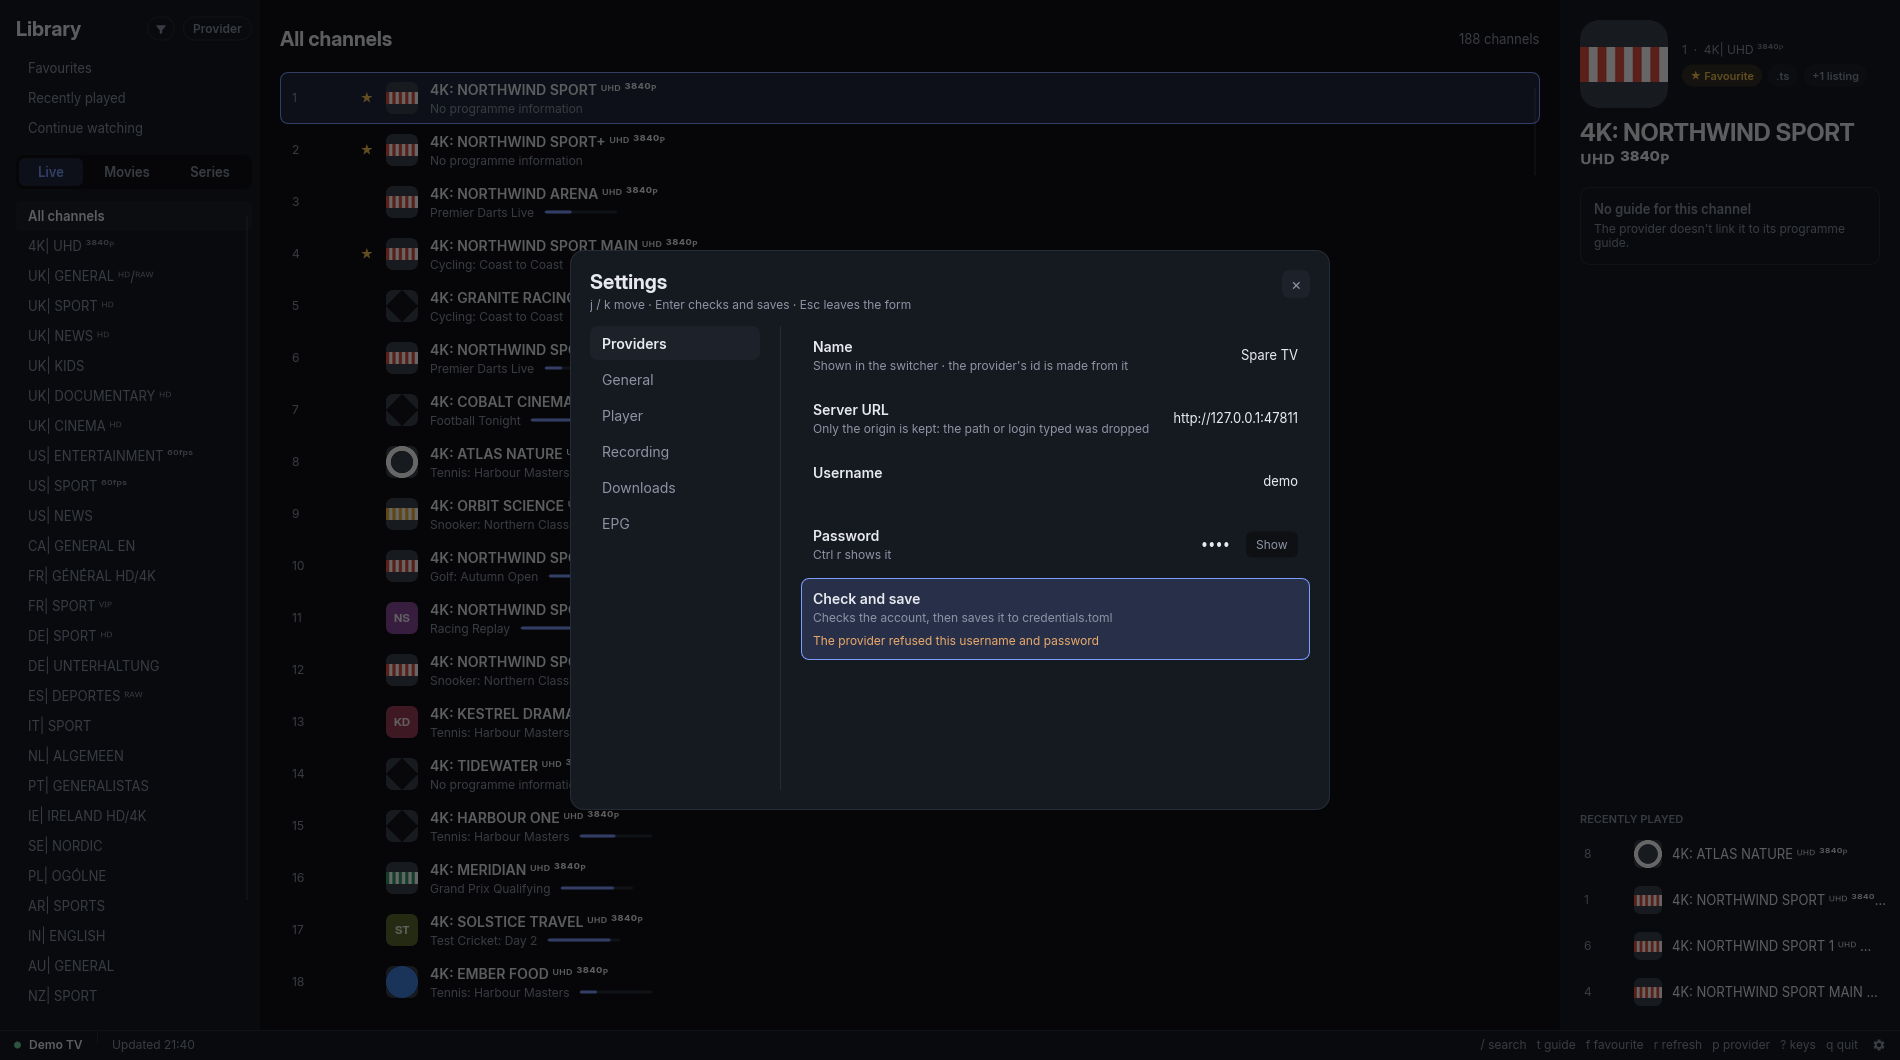
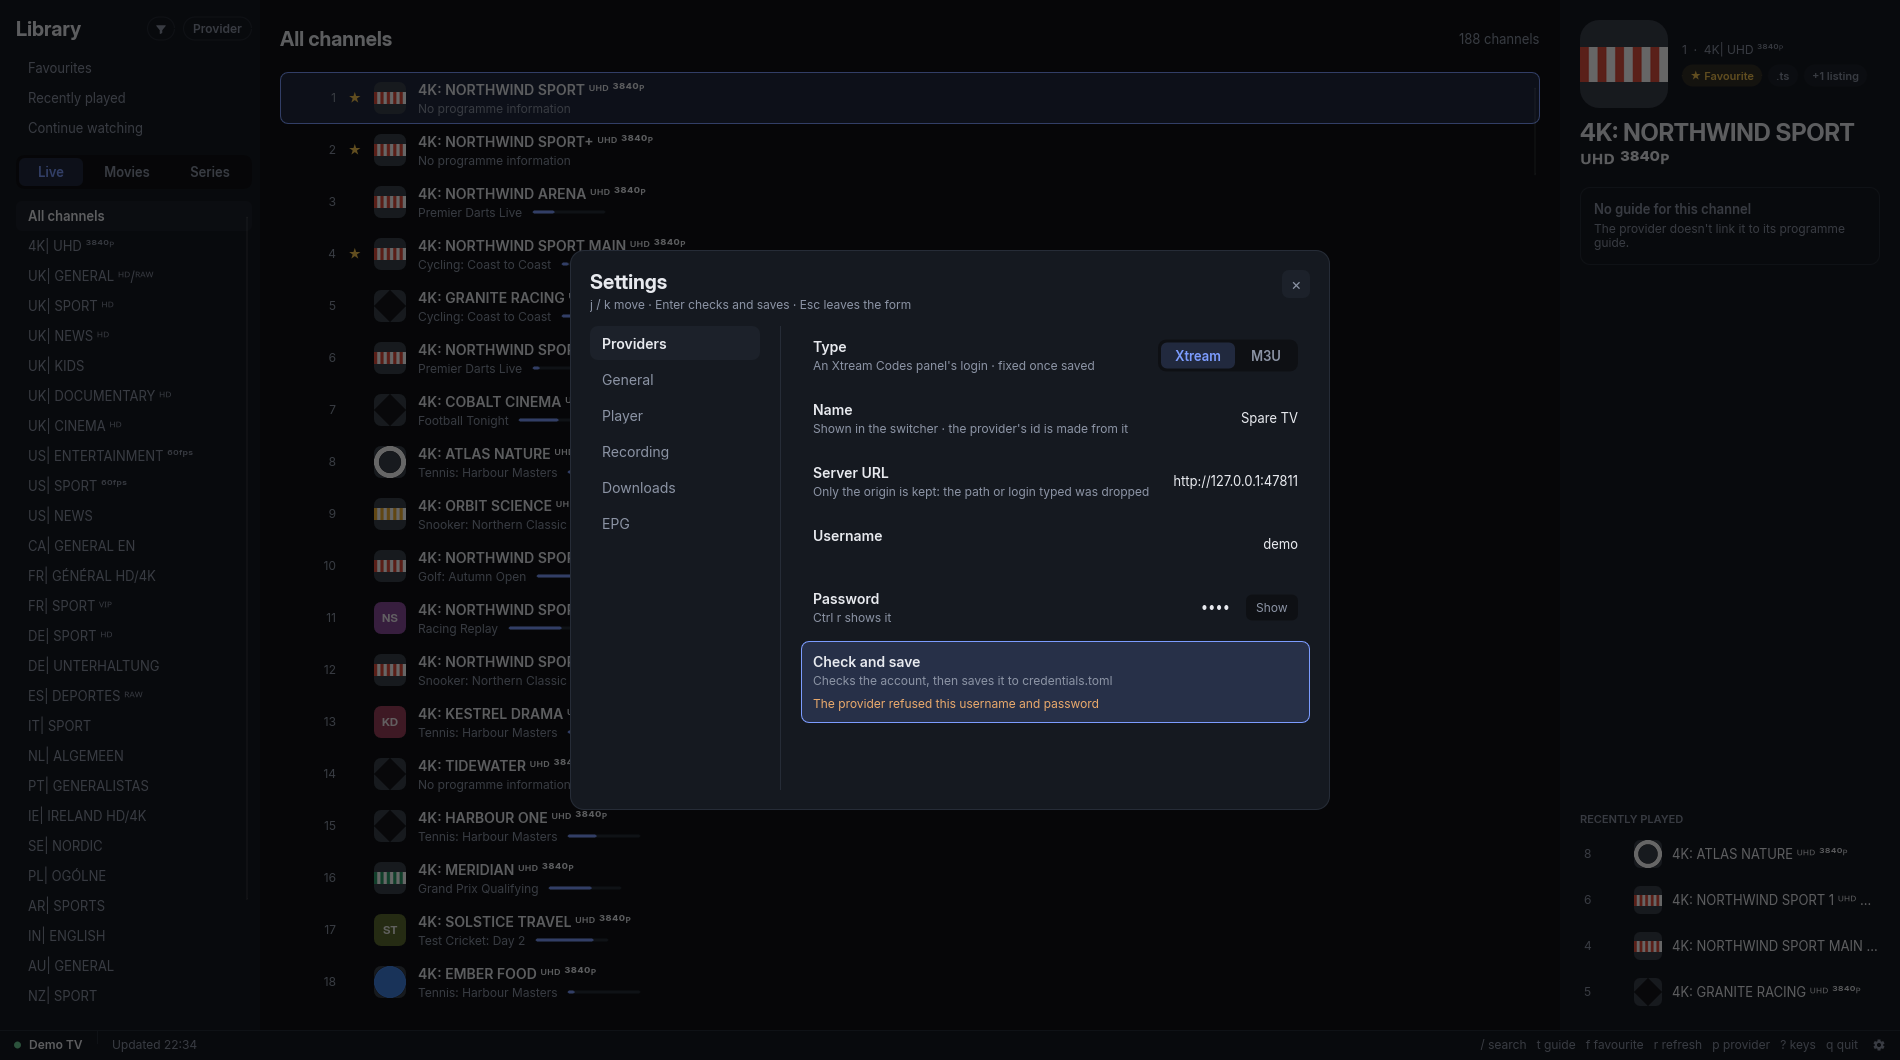
Document M3U providers, retake screenshots and re-run SPEC 10 in M3U ticket 07

diff --git a/README.md b/README.md
@@ -10,7 +10,7 @@
   <a href="https://github.com/emzbtw/vidicon/releases/latest"><img src="https://img.shields.io/github/v/release/emzbtw/vidicon" alt="Latest release"></a>
   <a href="#nixos"><img src="https://img.shields.io/badge/Nix-flake-5277C3?logo=nixos&logoColor=white" alt="Nix flake"></a>
   <img src="https://img.shields.io/badge/Linux-Wayland%20%7C%20X11-informational?logo=linux&logoColor=white" alt="Linux: Wayland or X11">
-  <img src="https://img.shields.io/badge/source-Xtream%20Codes-555" alt="Source: Xtream Codes">
+  <img src="https://img.shields.io/badge/source-Xtream%20Codes%20%7C%20M3U-555" alt="Source: Xtream Codes or M3U">
   <img src="https://img.shields.io/badge/Rust-1.92%2B-orange?logo=rust" alt="Rust 1.92+">
   <a href="LICENSE"><img src="https://img.shields.io/badge/licence-GPL--3.0--or--later-blue" alt="Licence: GPL-3.0-or-later"></a>
 </p>
@@ -25,7 +25,7 @@
 </p>
 
 Vidicon browses an Xtream Codes provider's live channels, guide, movies and
-series, and plays them in mpv.
+series, or the channels of an M3U playlist, and plays them in mpv.
 
 ![Vidicon: browsing channels, searching, the guide grid and movies](docs/screenshots/demo.gif)
 
@@ -64,8 +64,10 @@ filters in under 8 ms a keystroke.
 
 ## What it does not do
 
-- **M3U playlists or Stalker portals.** Xtream Codes is the only source
+- **Stalker portals.** Xtream Codes and M3U playlists are the only sources
   ([`docs/adr/0001-xtream-only-source.md`](docs/adr/0001-xtream-only-source.md)).
+- **Catch-up, movies or series from an M3U playlist.** Its entries are all
+  live channels.
 - **Play video itself.** mpv opens in its own window, driven over its IPC
   socket ([`docs/adr/0002-external-mpv-over-ipc.md`](docs/adr/0002-external-mpv-over-ipc.md)).
 - Windows, macOS, mobile or TV.
@@ -178,9 +180,11 @@ and a `SHA256SUMS` file.
 
 ## First run
 
-With no credentials file, Vidicon opens a form for the provider's server
-URL, username and password, checks the account, and saves it. Settings
-(`,`) adds more providers, edits them, and adds guide sources.
+With no credentials file, Vidicon opens a form for a provider. Pick its
+type: Xtream takes the server URL, username and password, and saves them
+once the account checks out; M3U takes a playlist URL or path, and saves
+it once the playlist reads. Settings (`,`) adds more providers, edits
+them, and adds guide sources.
 
 | What | Path |
 |---|---|
@@ -190,6 +194,32 @@ URL, username and password, checks the account, and saves it. Settings
 
 `--credentials <path>` or `VIDICON_CREDENTIALS` reads the credentials from
 another file. Vidicon refuses a credentials file that other users can read.
+
+### M3U providers
+
+An M3U provider in `credentials.toml`, as the form writes it:
+
+```toml
+[[provider]]
+id = "lists"
+name = "My lists"
+type = "m3u"
+url = "https://lists.example.net/tv.m3u"  # or an absolute path
+user_agent = "Example/1.0"                # optional
+```
+
+Every entry is a live channel, in its `group-title` category. The guide
+comes from the feeds the playlist names in its `#EXTM3U` line
+(`url-tvg` or `x-tvg-url`), and from any guide sources you add. A URL is fetched again
+on the refresh schedule; a file is read again when it changes. An M3U
+provider has no account, catch-up, movies or series, and the app hides
+them.
+
+![An M3U provider: no movies or series, a backup stream under its channel](docs/screenshots/main-m3u.png)
+
+A playlist URL from an Xtream panel (`get.php?username=...&password=...`)
+is better added as Xtream: the form offers to, and that also gives the
+guide, catch-up, movies and series.
 
 ## Keys
 

diff --git a/docs/perf/v1.md b/docs/perf/v1.md
@@ -352,6 +352,30 @@ xz costs about half a second more on 80 MB, in the background import;
 the parse and the writes are the rest either way. `cargo test --release
 guide_feed_xz_time -- --ignored --nocapture` runs it.
 
+### With an M3U provider active
+
+M3U ticket 07, measured 2026-10-22, the same setup as above with an
+M3U provider as the only one: the demo provider's `/playlist.m3u`
+padded to 50,000 channels (50,003 entries), its guide from the
+playlist's two header feeds (about 5.7k programmes, as the feeds cover
+the screenshot set only). The Xtream provider padded to 50,000 was run
+alternately on the same build, to tell the source from the machine.
+
+| Metric | Budget | M3U | Xtream, same day | |
+|---|---|---|---|---|
+| Launch to first frame | < 300 ms | median 225 ms, 187 to 281 ms over 20 launches; alternating 12 each, 226 | alternating 12, 214 | met |
+| Search, per keystroke | < 16 ms | 0.4 to 4.5 ms | | met |
+| Scrolling, 144 Hz | holds 144 | median 139.7 fps, 132.6 to 143.2; render p50 2.95 ms | median 134.9 fps; render p50 3.24 ms | as accepted, unchanged |
+| Idle CPU | ~0 | 0 ticks in 30 s between minute ticks | | met |
+| Idle memory | < 200 MB | 112 MB RSS, 28 MB anonymous | 102 to 108 MB RSS | met |
+| Channel switch | < 50 ms | 0 ms; first play 48 to 70 ms with the fake mpv | | met |
+
+- Launch: the M3U median is 12 ms over Xtream's, well inside the spread
+  of either (182 to 268 ms between them), and both sit within the
+  2026-10-01 range.
+- Scrolling: 22 one-second samples each, on DP-1.
+- The first play includes starting mpv, as under Channel switch.
+
 ## Reproducing
 
 Set up the throwaway directories as in `tools/demo/README.md`, with the

diff --git a/.scratch/m3u/issues/07-screenshots-and-docs.md b/.scratch/m3u/issues/07-screenshots-and-docs.md
@@ -32,10 +32,24 @@ it.
 
 ## Acceptance
 
-- [ ] Site builds with link checking; no real provider data in any
-  screenshot.
-- [ ] SPEC 10 budgets met with an M3U provider active.
-- [ ] Milestone review's findings fixed.
+- [x] Site builds with link checking; no real provider data in any
+  screenshot. Retaken against the demo provider: `settings-add-provider`,
+  `settings-providers` (now with an M3U provider), `setup-add-provider`;
+  new: `settings-add-m3u`, `provider-picker`, `main-m3u`. The edit and
+  remove views did not change for an Xtream provider and stay.
+- [x] SPEC 10 budgets met with an M3U provider active
+  (`docs/perf/v1.md`, With an M3U provider active).
+- [x] Milestone review's findings fixed: an M3U stream's token in a
+  failed recording's note and log (ffmpeg's last line, now naming the
+  host only, and the log line redacted for Xtream too); `--probe-epg`
+  reading xz feeds; the README's first-run wording, `x-tvg-url`, the
+  section named "M3U providers"; AGENTS.md's Settled heading. Kept:
+  config's absolute-path-only playlists (SPEC 4.1); the picker's type
+  and the playlist URL's hidden query (ticket 06, checked by the user);
+  the recorder's no-limit for M3U (SPEC 9); the duplicated playlist
+  open-and-read shape in `import::playlist` and `check_playlist`, the
+  probe's own M3U scan, and the type labels in three places in
+  `ui.rs`, left as they are this close to the release.
 - [ ] v0.2.0 released with notes.
 
 ## Out of scope

diff --git a/AGENTS.md b/AGENTS.md
@@ -37,9 +37,10 @@ Built for one user first, may be published later. Licensed GPL-3.0-or-later
 ## Settled
 
 - **Rust.**
-- **Xtream Codes API is the only source in v1.** Data model is multi-provider;
+- **Xtream Codes API was the only source in v1.** Data model is multi-provider;
   v1 UI has one active provider plus a switcher. ADR 0001, amended for external
-  XMLTV guide sources (EPG sources milestone).
+  XMLTV guide sources (EPG sources milestone) and for M3U playlists as a
+  second source type, live channels only (M3U milestone).
 - **v1 scope: live channels, EPG (now/next), favourites.** No VOD, series or
   catch-up yet. EPG timeline grid is a later milestone:
   `docs/milestones/guide-grid.md`.
@@ -108,7 +109,7 @@ on the account's one connection (stream recovery ticket 01).
 `--probe-blackout <stream_id>` plays a channel in an mpv window until
 it is closed and prints the black, frozen and silent spans ffmpeg's
 detect filters find, with bitrate and mpv's CPU (ticket 05).
-`--probe-epg <url-or-path>` streams an external XMLTV feed (gzip or
+`--probe-epg <url-or-path>` streams an external XMLTV feed (gzip, xz or
 plain) and prints counts only: size, channels, programmes, reach,
 time offsets, matches against the first provider's stored channels by
 id and by normalised name, and how its times compare with the

diff --git a/tools/demo/README.md b/tools/demo/README.md
@@ -215,12 +215,20 @@ vidicon --play --screenshot docs/screenshots/main-guide.png \
   `,jjj<Tab>jjllkk<Enter><C-u>/srv/tv<Enter>` (4 min saved, the folder
   refused);
   `settings-add-provider`: a few `jk` pairs, then `p j<Enter>`,
-  `<Enter>Spare<Space>TV<Enter>`,
+  `j<Enter>Spare<Space>TV<Enter>`,
   `j<Enter>127.0.0.1:47811/get.php?username=x<Enter>`,
   `j<Enter>demo<Enter> j<Enter>nope<Enter> j<Enter>` and 80 `h`
-  (which move nothing, so the refusal stays);
-  `settings-providers`: the same with the password `demo`, the URL
-  without its path (onboarding ticket 01);
+  (which move nothing, so the refusal stays; the form opens on its
+  type, M3U ticket 07);
+  `settings-add-m3u`: a few `jk` pairs, then `p j<Enter> <Enter>`
+  (M3U), `j<Enter>Demo<Space>Lists<Enter>`, `j<Enter>` and the
+  playlist URL below, `<Enter> j` and 80 `h`;
+  `settings-providers`: the same, then `j<Enter>` (saved) and 120 `h`
+  (M3U ticket 07);
+  `provider-picker`: with Demo Lists saved as above and imported, a
+  few `jk` pairs, then `p`;
+  `main-m3u`: Demo Lists switched to and imported, then
+  `jjjjjj<Enter>` and 9 `jk` pairs;
   `settings-edit-provider`: with the second `[[provider]]` as for
   `settings`, imported, a few `jk` pairs, then `,<Tab>j<Enter>`;
   `settings-remove-provider`: the same, then `jjjjj<Enter>`

diff --git a/CONTEXT.md b/CONTEXT.md
@@ -4,8 +4,8 @@ Glossary for Vidicon, an IPTV player. Terms only; decisions go in `docs/adr/`.
 
 ## Terms
 
-- **Provider**: an IPTV service the user has an account with. v1 supports providers that speak the Xtream Codes API.
-- **Xtream Codes API**: the HTTP API (`player_api.php`, credentials as query params) a provider exposes for listing and streaming content. The only source type in v1.
+- **Provider**: an IPTV service the user has an account with, or a playlist they read channels from. A provider speaks the Xtream Codes API or is an M3U provider.
+- **Xtream Codes API**: the HTTP API (`player_api.php`, credentials as query params) a provider exposes for listing and streaming content. One of two source types, and the only one with an account, catch-up and VOD.
 - **M3U provider**: a provider read from an M3U playlist, by URL or local path, instead of the Xtream Codes API. Its entries are all live channels; it has no account, catch-up or VOD.
 - **Channel**: a live stream offered by a provider. v1 content is live channels only (no VOD, series or catch-up).
 - **EPG**: the electronic programme guide: what is airing on each channel and when.

diff --git a/SPEC.md b/SPEC.md
@@ -69,7 +69,7 @@ look poor and slow down with large provider lists.
   (`docs/milestones/onboarding.md`); external EPG sources
   (`docs/milestones/epg-sources.md`).
 - M3U playlists as a second source type, by URL or path, live channels
-  only: `docs/milestones/m3u.md` (planned 2026-10-22).
+  only: `docs/milestones/m3u.md` (done 2026-10-22).
 
 ## 3. Architecture
 
